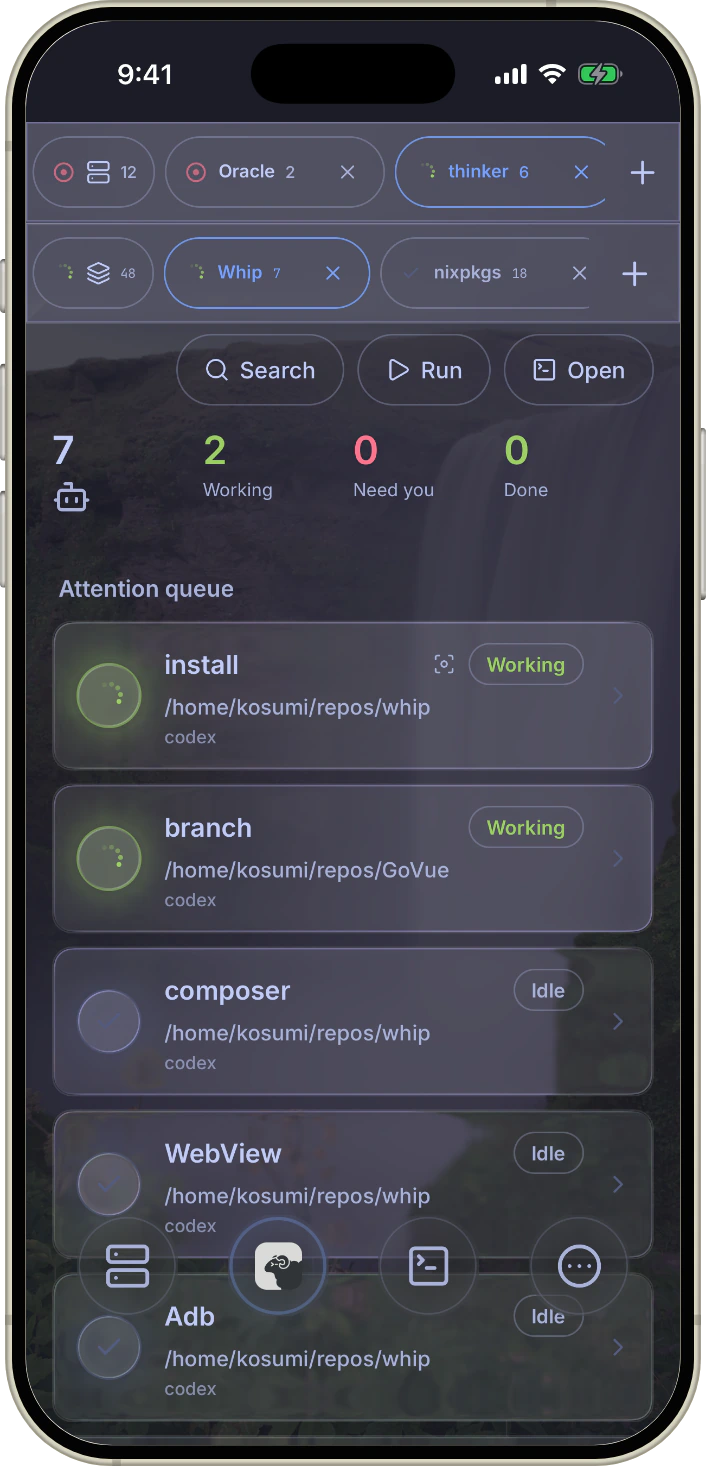
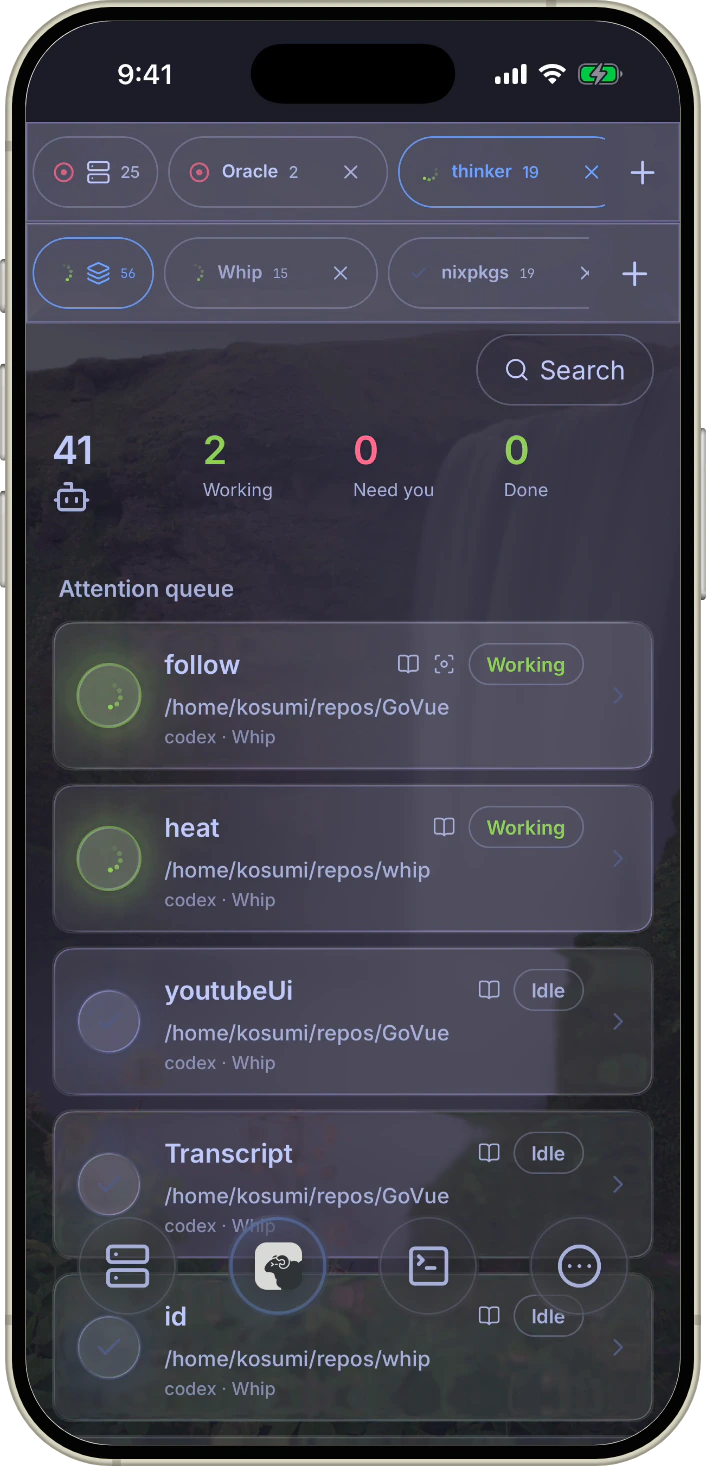
doc: refresh README previews for Whip 1.9.1
Refresh all ten gallery images from the current launch recordings, update Native Chat View and phone-tool captions, and document source timestamps and regeneration steps.

Validated gallery links, 706x1466 dimensions, transparent corners, and git diff --check.

diff --git a/assets/screenshots/ios/README.md b/assets/screenshots/ios/README.md
@@ -1,33 +1,69 @@
 # iOS README previews
 
-The gallery uses screenshots of Whip 1.9.0 (iOS build 2) captured on the
+The gallery uses frames from the Whip 1.9.1 launch recordings, captured on the
 configured iPhone 17 Pro simulator on `mini`, running iOS 26.5. The GitHub-channel
-arm64 Release simulator build uses commit `88dbfedb`. It retains the saved
-background image, glass mode, and developer Rancher appearance. These are actual
+arm64 Release simulator build uses commit `137bcd01`. It retains the saved
+waterfall background, glass mode, and developer Rancher appearance. These are actual
 app screens inside iPhone mockups, encoded as transparent 706×1466 WebP images.
 The iPhone frame comes from `@sneas/telephone`; its screen opening is fitted to
 the capture's aspect ratio so the app remains proportional. The captured
 Dynamic Island is retained, and the frame's synthetic status UI is removed.
 
 The Herd capture focuses on `thinker` and its Whip space so both rails are
-visible. The Markdown preview opens the repository's root `README.md`.
-`reverse-control.webp` shows an unsent Codex launch draft with Reverse Control
-enabled. `chat-details.webp` is the gallery's Chat View preview and shows a
-completed turn's token footer and details. The normal composer contains an
-unsent README-review draft, cleared after capture.
-
-The terminal preview shows read-only Git history and the README change summary
-in a temporary shell tab, closed after capture.
+visible. `chat-view.webp` shows a completed coding-agent reply with an expanded
+inline file diff. The composer contains the unsent question “What hosts do I
+have in Whip?” over that demo's completed conversation. `reverse-control.webp`
+shows the actual `hosts.list` phone-tool call and its four-host response.
+The Git preview shows a tracked CSS source change with line numbers and context
+controls. The terminal preview shows real coding-agent output and the mobile
+input controls. The Markdown preview opens the repository's root `README.md`.
 
 The browser preview shows this README served locally on `mini` at
 `http://127.0.0.1:8794`, using Desktop WebKit with the automatic viewport.
+
+## Source frames
+
+All ten gallery images use the unframed 1206×2622 recordings in
+[`launch-videos/source-assets/ios/current`](../../../launch-videos/source-assets/ios/current/README.md).
+Times below are seconds within those MP4 files, before the launch film's scene
+timing or 3D phone framing is applied.
+
+| Preview | Recording | Time |
+| --- | --- | --- |
+| `hosts.webp` | `hosts.mp4` | 0.2 |
+| `herd.webp` | `herd.mp4` | 4.0 |
+| `chat-view.webp` | `chat.mp4` | 2.25 |
+| `chat-composer.webp` | `composer.mp4` | 1.85 |
+| `reverse-control.webp` | `reverse-control.mp4` | 1.75 |
+| `remote-files.webp` | `files.mp4` | 0.7 |
+| `git-diff.webp` | `git-diff.mp4` | 0.2 |
+| `browser.webp` | `browser.mp4` | 1.75 |
+| `terminal.webp` | `terminal.mp4` | 1.325 |
+| `markdown-preview.webp` | `readme.mp4` | 2.5 |
+
+Extract each selected frame to `.codex-readme-raw/1.9.1/` using its preview's base
+name. For example, from the repository root:
+
+```sh
+mkdir -p .codex-readme-raw/1.9.1
+nix develop -c ffmpeg -ss 0.2 \
+  -i launch-videos/source-assets/ios/current/hosts.mp4 \
+  -frames:v 1 -update 1 .codex-readme-raw/1.9.1/hosts.png
+nix develop -c npm run generate:readme-phone-mockups -- --ios .codex-readme-raw/1.9.1
+```
+
+Use the original phone recordings rather than rendered film frames so the
+gallery retains the full app resolution and receives only one device frame.
+The unused `chat-details.webp` and `settings.webp` remain earlier 1.9.0 captures.
+
+## Capture new screens
 
 Update the app in place with `xcrun simctl install` to retain its hosts, keys,
 background image, and preferences. Build with
 `WHIP_DISTRIBUTION_CHANNEL=github` and an embedded production JavaScript bundle.
 Use Metro's `--max-workers 1` setting for this Nix/macOS build environment.
 
-For these captures, app and terminal full-screen mode are disabled so the
+When capturing new screens, disable app and terminal full-screen mode so the
 status bar and Dynamic Island do not cover navigation or pinned chat context.
 Restore the simulator's saved full-screen preferences after capture.
 
@@ -52,19 +88,14 @@ xcrun simctl io 35AF86B7-DC94-48B9-8215-82C9DE8E08F7 \
   screenshot build/readme/screenshots/hosts.png
 ```
 
-Copy the raw 1206×2622 PNGs to `.codex-readme-raw/1.9.0/` in the local checkout, then
+Copy the raw 1206×2622 PNGs to `.codex-readme-raw/1.9.1/` in the local checkout, then
 run the shared mockup generator with its iPhone preset:
 
 ```sh
-nix develop -c npm run generate:readme-phone-mockups -- --ios .codex-readme-raw/1.9.0
+nix develop -c npm run generate:readme-phone-mockups -- --ios .codex-readme-raw/1.9.1
 ```
 
 The iPhone preset preserves the raw PNGs outside version control. To regenerate
 one image, append its base name, for example `herd`. Update the gallery captions
 and build information when replacing the previews. Frame attribution and the
 MIT license are in [the parent capture notes](../README.md).
-
-Tracked-file diffs on the host with a `fish` login shell still return
-`HostRuntimeError.GitFailure` in this build. The Git preview shows the new
-`docs/readme-update-plan.md` working-tree diff with a line selected. The
-tracked-file error needs separate investigation.

diff --git a/README.md b/README.md
@@ -98,23 +98,23 @@ We will not add first-class support for **tmux, Zellij, or Mosh**. This focus le
     <td align="center"><strong>Watch the whole herd</strong><br>Focus a host, switch spaces from the rail, and follow its attention queue.</td>
   </tr>
   <tr>
-    <td align="center"><img src="assets/screenshots/ios/chat-details.webp" alt="Whip completed chat turn with its token usage footer and expanded model, timing, and cache details" width="320"></td>
-    <td align="center"><img src="assets/screenshots/ios/chat-composer.webp" alt="Whip native chat composer with microphone, attachment, and send controls" width="320"></td>
+    <td align="center"><img src="assets/screenshots/ios/chat-view.webp" alt="Whip Native Chat View with a completed agent response and an expanded inline file diff" width="320"></td>
+    <td align="center"><img src="assets/screenshots/ios/chat-composer.webp" alt="Whip native chat composer drafting a question about saved hosts, with microphone, attachment, and send controls" width="320"></td>
   </tr>
   <tr>
-    <td align="center"><strong>See what each turn used</strong><br>Inspect the token-usage footer and expand its model, timing, input, output, and cache details.</td>
-    <td align="center"><strong>Chat naturally</strong><br>Dictate a draft, paste an image, attach a file, or bring selected text into your next prompt.</td>
+    <td align="center"><strong>Native Chat View</strong><br>Follow agent replies, inspect tool calls, and review file diffs inline.</td>
+    <td align="center"><strong>Chat naturally</strong><br>Write or dictate a prompt, attach a file, and send it to your agent.</td>
   </tr>
   <tr>
-    <td align="center"><img src="assets/screenshots/ios/reverse-control.webp" alt="Whip Codex launch sheet with Reverse Control enabled for browser and device tools" width="320"></td>
+    <td align="center"><img src="assets/screenshots/ios/reverse-control.webp" alt="Whip agent conversation showing the hosts.list phone-tool call and its response listing four saved hosts" width="320"></td>
     <td align="center"><img src="assets/screenshots/ios/remote-files.webp" alt="Whip remote file browser showing the terminal's working directory over SFTP" width="320"></td>
   </tr>
   <tr>
-    <td align="center"><strong>Give agents phone tools</strong><br>Enable Reverse Control when launching an agent so it can use Whip's browser and device tools.</td>
+    <td align="center"><strong>Give agents phone tools</strong><br>Let a remote agent inspect connected hosts and use Whip's browser and device tools through Reverse Control.</td>
     <td align="center"><strong>Bring the filesystem with you</strong><br>Browse, transfer, edit, and preview remote files, including large text, Markdown, diagrams, PDF, and media.</td>
   </tr>
   <tr>
-    <td align="center"><img src="assets/screenshots/ios/git-diff.webp" alt="Whip Git diff viewer with highlighted changes, line selection, and context controls" width="320"></td>
+    <td align="center"><img src="assets/screenshots/ios/git-diff.webp" alt="Whip Git diff viewer showing a real styles.css change with line numbers and context controls" width="320"></td>
     <td align="center"><img src="assets/screenshots/ios/browser.webp" alt="Whip in-app browser displaying a local documentation preview in desktop mode with address, tab, and page controls" width="320"></td>
   </tr>
   <tr>
@@ -123,7 +123,7 @@ We will not add first-class support for **tmux, Zellij, or Mosh**. This focus le
   </tr>
   <tr>
     <td align="center"><img src="assets/screenshots/ios/terminal.webp" alt="Whip remote terminal with persistent tabs and mobile input controls" width="320"></td>
-    <td align="center"><img src="assets/screenshots/ios/markdown-preview.webp" alt="Whip rendering this project's README with its app artwork, badges, and links" width="320"></td>
+    <td align="center"><img src="assets/screenshots/ios/markdown-preview.webp" alt="Whip rendering this project's README with images, formatted text, and links" width="320"></td>
   </tr>
   <tr>
     <td align="center"><strong>Work from anywhere</strong><br>Switch between warm Herdr panes or independent SSH shells with controls that adapt to the keyboard.</td>
@@ -131,7 +131,7 @@ We will not add first-class support for **tmux, Zellij, or Mosh**. This focus le
   </tr>
 </table>
 
-Captured from Whip 1.9.0 (GitHub channel, Release build) on an iPhone 17 Pro simulator running iOS 26.5, with a custom background and glass appearance. See the [capture notes](assets/screenshots/README.md) to refresh them.
+Captured from Whip 1.9.1 (GitHub channel, Release build) on an iPhone 17 Pro simulator running iOS 26.5, with a custom background and glass appearance. See the [capture notes](assets/screenshots/ios/README.md) for the source recordings and refresh steps.
 
 ## What you can do
 
